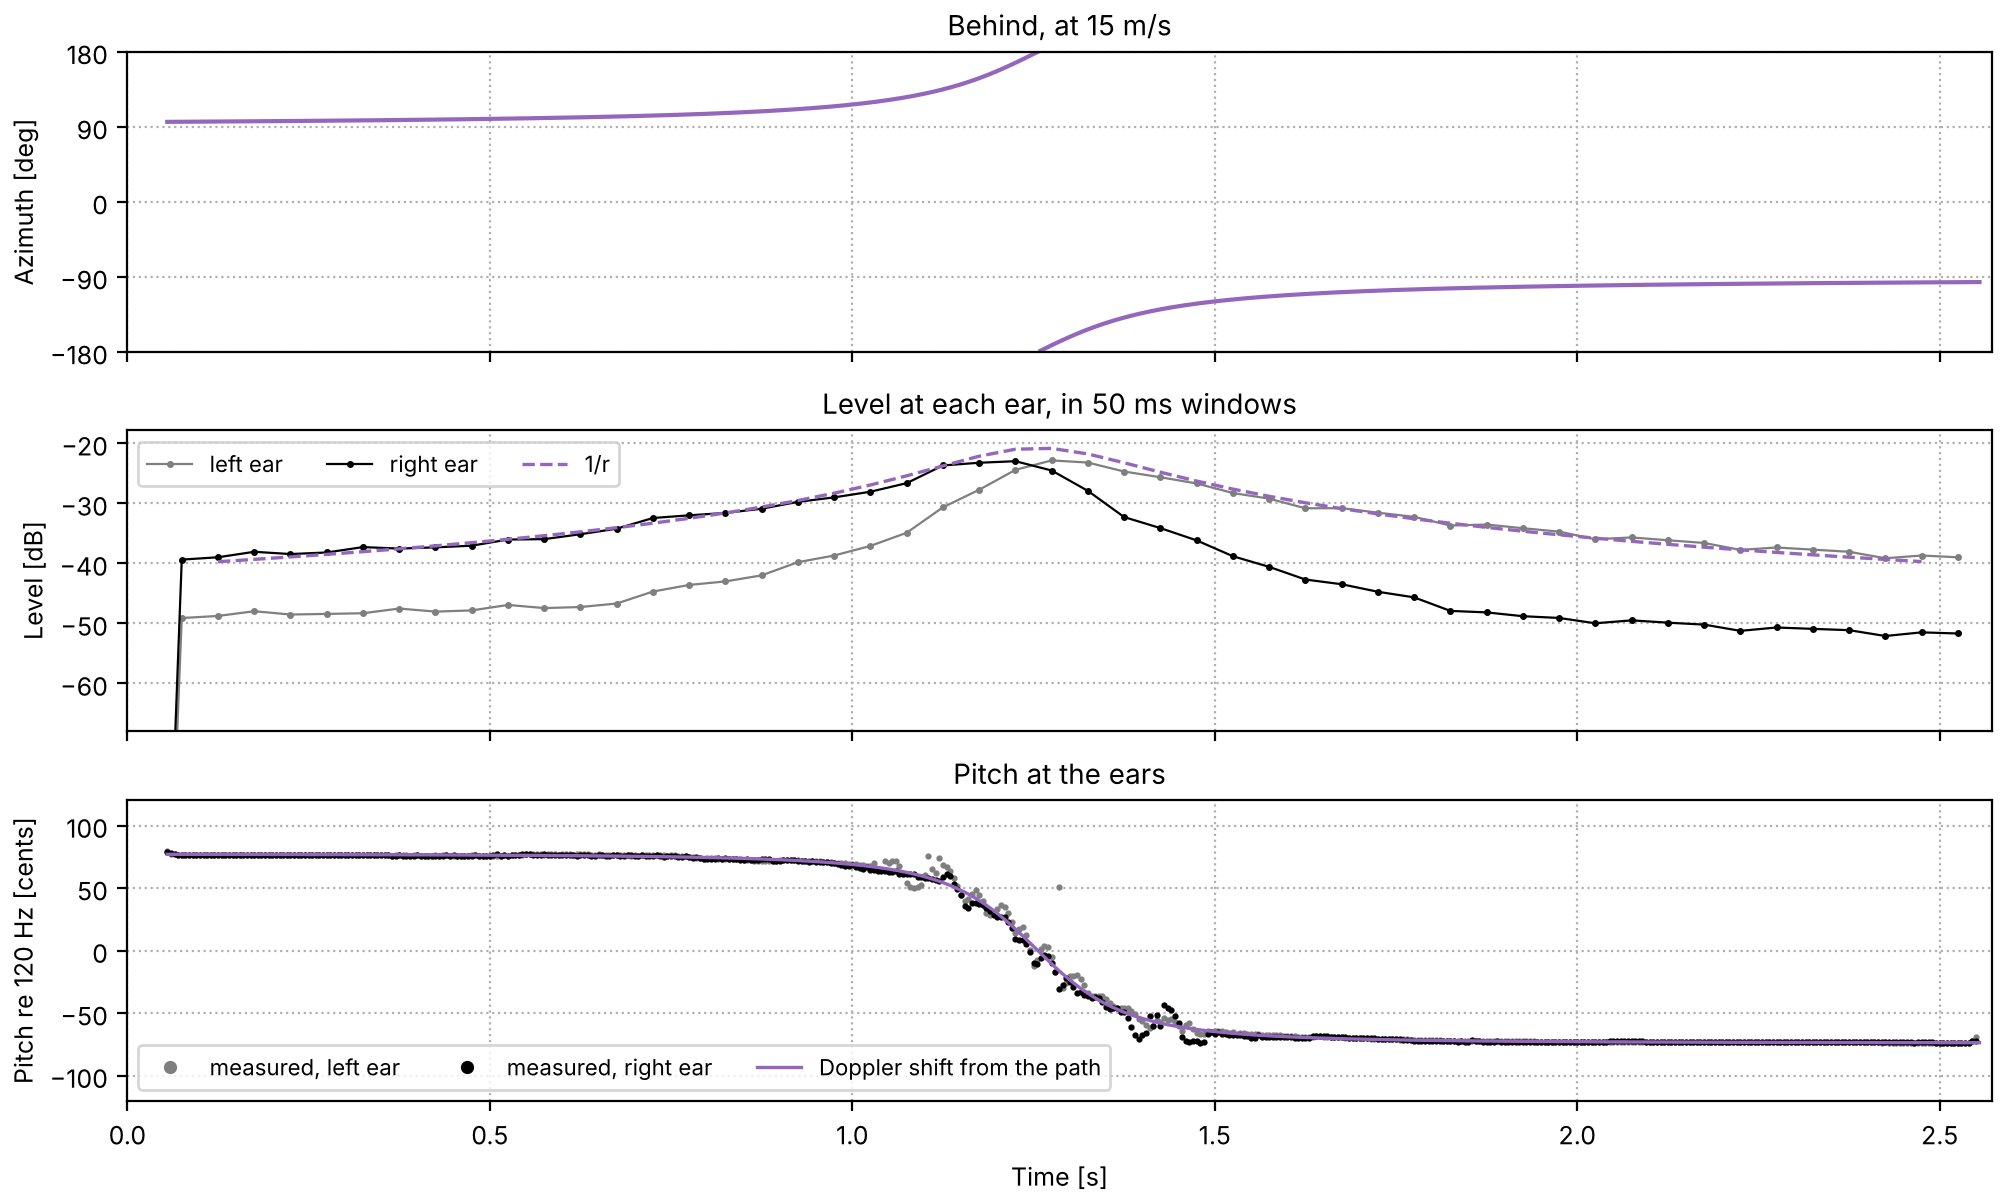
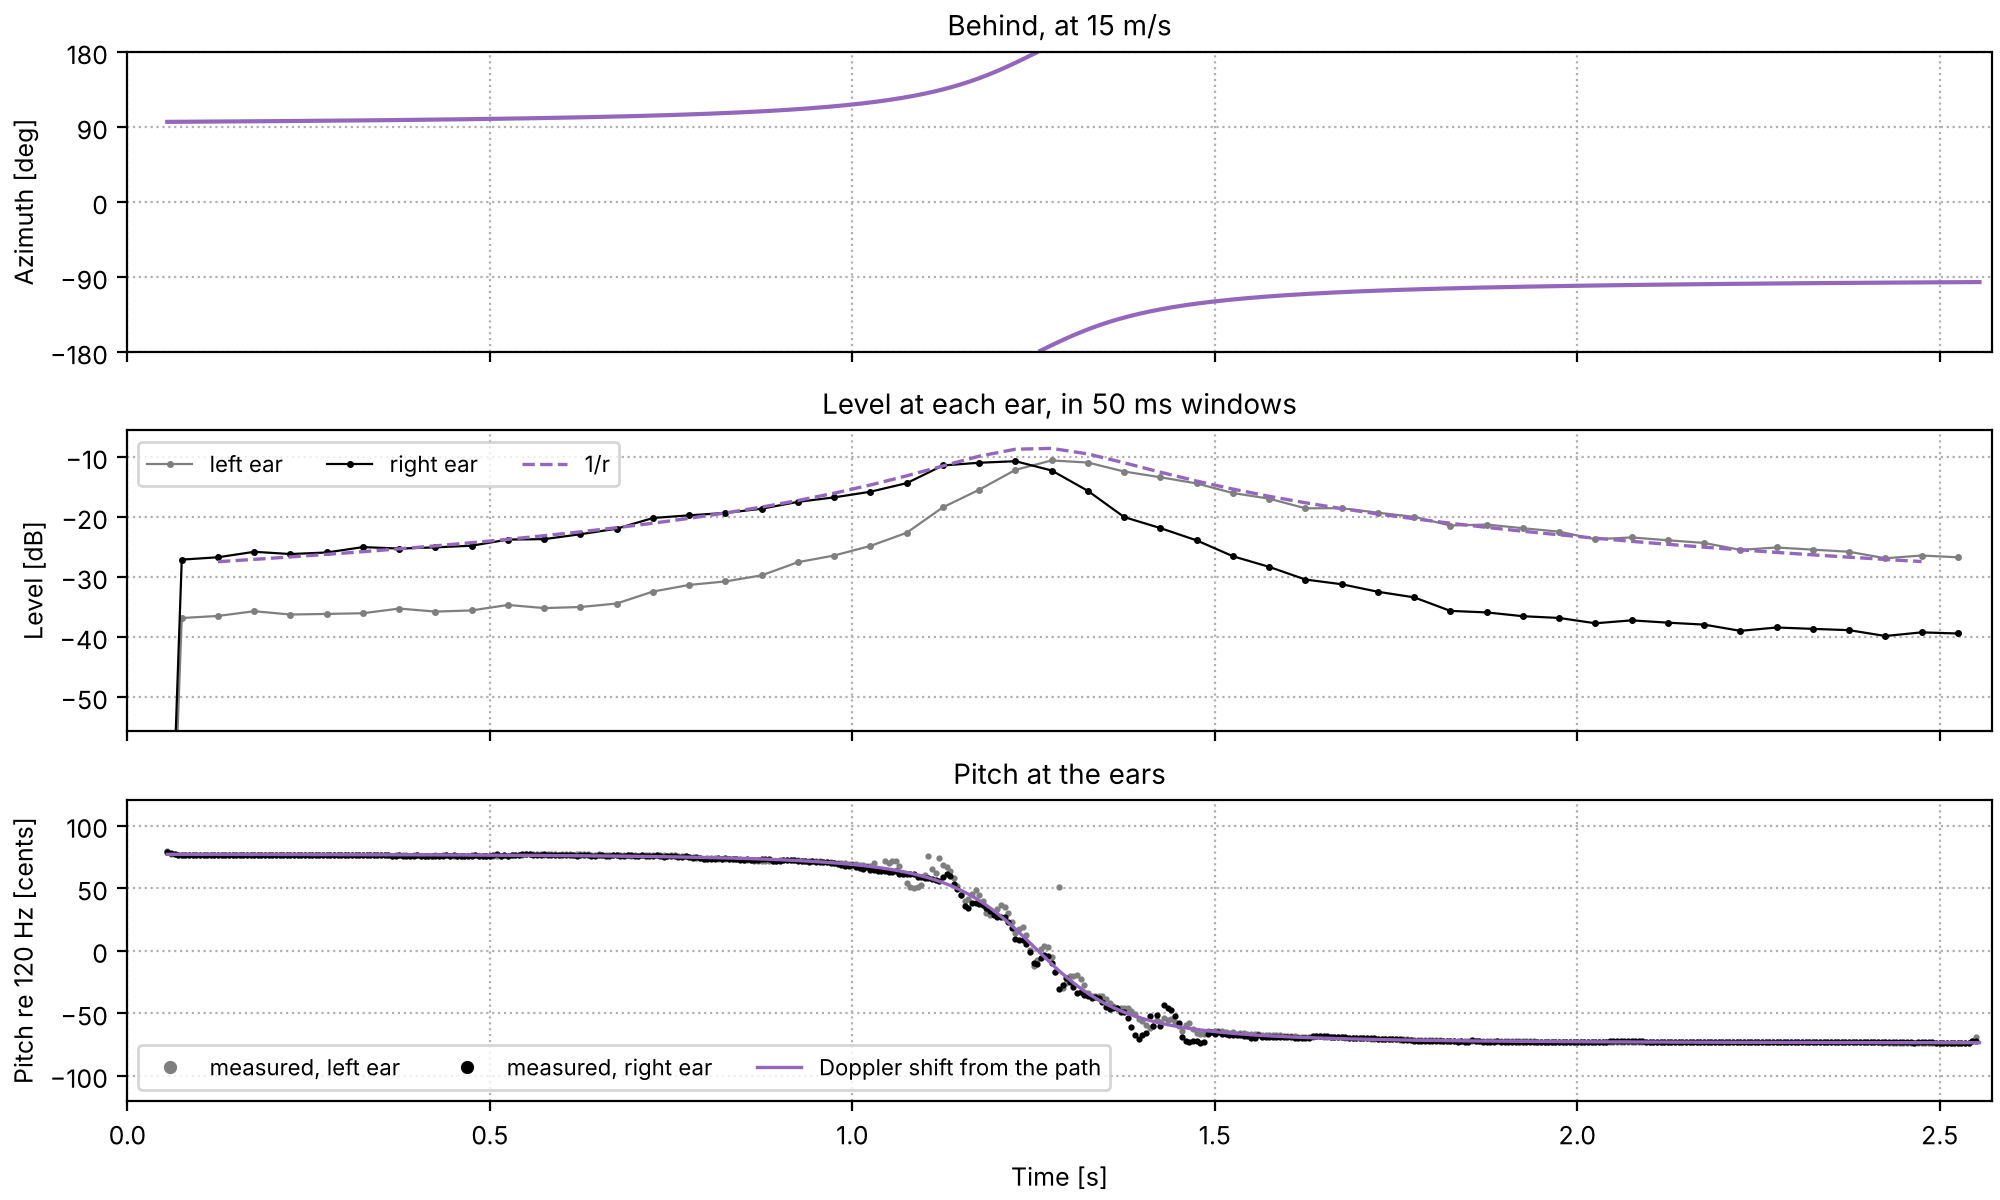
Rebuild the Moving talkers level figures after the HRIR gain fix
The level panels on the Moving talkers page were drawn before audit
sitting 18 fixed move_sound losing gain when the sound's rate differs
from the HRIR set's, so they sat about 12.2 dB low. Only that page is
rebuilt; its sounds are normalized and come out byte-identical, and
the page text does not change (it quotes level ranges, not levels).

Claude-Session: https://claude.ai/code/session_0128tMBPZtRfN4qnWm54HYD8

Changed region(s): [[0.031, 0.5242, 0.062, 0.5858], [0.031, 0.37, 0.062, 0.4317], [0.031, 0.4625, 0.062, 0.4933]]

diff --git a/docs/gallery/moving.html b/docs/gallery/moving.html
@@ -634,7 +634,7 @@ difference between the ears grows as the talker comes near. In a room, the rever
 about the same level wherever the talker stands, so the walk turns the sound from mostly room
 into mostly direct sound.</p>
 
-<article class="sound" id="d-m5" data-regions="[{&quot;x0&quot;: 0.05880366449652778, &quot;x1&quot;: 0.995833, &quot;top&quot;: 0.05767820987654315, &quot;bottom&quot;: 0.43007708285108015, &quot;t0&quot;: 0.0, &quot;t1&quot;: 2.55025}, {&quot;x0&quot;: 0.05880366449652778, &quot;x1&quot;: 0.995833, &quot;top&quot;: 0.5171704576581788, &quot;bottom&quot;: 0.889569330632716, &quot;t0&quot;: 0.0, &quot;t1&quot;: 2.55025}]">
+<article class="sound" id="d-m5" data-regions="[{&quot;x0&quot;: 0.05792866449652778, &quot;x1&quot;: 0.995833, &quot;top&quot;: 0.05767820987654315, &quot;bottom&quot;: 0.43007708285108015, &quot;t0&quot;: 0.0, &quot;t1&quot;: 2.55025}, {&quot;x0&quot;: 0.05792866449652778, &quot;x1&quot;: 0.995833, &quot;top&quot;: 0.5171704576581788, &quot;bottom&quot;: 0.889569330632716, &quot;t0&quot;: 0.0, &quot;t1&quot;: 2.55025}]">
   <div class="about">
     <h3>Walking in <span class="headphones" title="Headphones required for binaural sounds" role="img" aria-label="Headphones required for binaural sounds">🎧</span></h3>
     <div class="desc"><p>The male talker walking in from 3 m to 30 cm, with no room. The level at each ear follows 1/r
@@ -654,7 +654,7 @@ scene = walk_scene()
 sound = finish(rendered)</code></pre></details>
 </article>
 
-<article class="sound" id="d-m6" data-regions="[{&quot;x0&quot;: 0.05830366449652778, &quot;x1&quot;: 0.9958329999999999, &quot;top&quot;: 0.05767820987654315, &quot;bottom&quot;: 0.43007708285108015, &quot;t0&quot;: 0.0, &quot;t1&quot;: 3.2678125}, {&quot;x0&quot;: 0.05830366449652778, &quot;x1&quot;: 0.9958329999999999, &quot;top&quot;: 0.5171704576581788, &quot;bottom&quot;: 0.889569330632716, &quot;t0&quot;: 0.0, &quot;t1&quot;: 3.2678125}]">
+<article class="sound" id="d-m6" data-regions="[{&quot;x0&quot;: 0.05581147699652778, &quot;x1&quot;: 0.995833, &quot;top&quot;: 0.05767820987654315, &quot;bottom&quot;: 0.43007708285108015, &quot;t0&quot;: 0.0, &quot;t1&quot;: 3.2678125}, {&quot;x0&quot;: 0.05581147699652778, &quot;x1&quot;: 0.995833, &quot;top&quot;: 0.5171704576581788, &quot;bottom&quot;: 0.889569330632716, &quot;t0&quot;: 0.0, &quot;t1&quot;: 3.2678125}]">
   <div class="about">
     <h3>Walking in, in a room <span class="headphones" title="Headphones required for binaural sounds" role="img" aria-label="Headphones required for binaural sounds">🎧</span></h3>
     <div class="desc"><p>The same walk in a room with an RT60 of 0.6 s, where direct and reverberant sound are equal at
@@ -944,7 +944,7 @@ seconds.</p></div>
   <details class="code"><summary>Code</summary><pre><code class="language-python">fig, playhead, scene, sound = render_path(0)</code></pre></details>
 </article>
 
-<article class="sound" id="d-ml2" data-regions="[{&quot;x0&quot;: 0.06369428949652778, &quot;x1&quot;: 0.9958329999999999, &quot;top&quot;: 0.04325865740740742, &quot;bottom&quot;: 0.2933562574749231, &quot;t0&quot;: 0.0, &quot;t1&quot;: 2.5714375}, {&quot;x0&quot;: 0.06369428949652778, &quot;x1&quot;: 0.9958329999999999, &quot;top&quot;: 0.358676288580247, &quot;bottom&quot;: 0.6087738886477623, &quot;t0&quot;: 0.0, &quot;t1&quot;: 2.5714375}, {&quot;x0&quot;: 0.06369428949652778, &quot;x1&quot;: 0.9958329999999999, &quot;top&quot;: 0.6670793979070215, &quot;bottom&quot;: 0.917176997974537, &quot;t0&quot;: 0.0, &quot;t1&quot;: 2.5714375}]">
+<article class="sound" id="d-ml2" data-regions="[{&quot;x0&quot;: 0.06369428949652778, &quot;x1&quot;: 0.9958329999999999, &quot;top&quot;: 0.04325865740740742, &quot;bottom&quot;: 0.2913965898855142, &quot;t0&quot;: 0.0, &quot;t1&quot;: 2.5714375}, {&quot;x0&quot;: 0.06369428949652778, &quot;x1&quot;: 0.9958329999999999, &quot;top&quot;: 0.35671662099083845, &quot;bottom&quot;: 0.6048545534689447, &quot;t0&quot;: 0.0, &quot;t1&quot;: 2.5714375}, {&quot;x0&quot;: 0.06369428949652778, &quot;x1&quot;: 0.9958329999999999, &quot;top&quot;: 0.6690390654964304, &quot;bottom&quot;: 0.917176997974537, &quot;t0&quot;: 0.0, &quot;t1&quot;: 2.5714375}]">
   <div class="about">
     <h3>Close in front <span class="headphones" title="Headphones required for binaural sounds" role="img" aria-label="Headphones required for binaural sounds">🎧</span></h3>
     <div class="desc"><p>50 cm in front, left to right, inside the measured distances. The level jumps by
